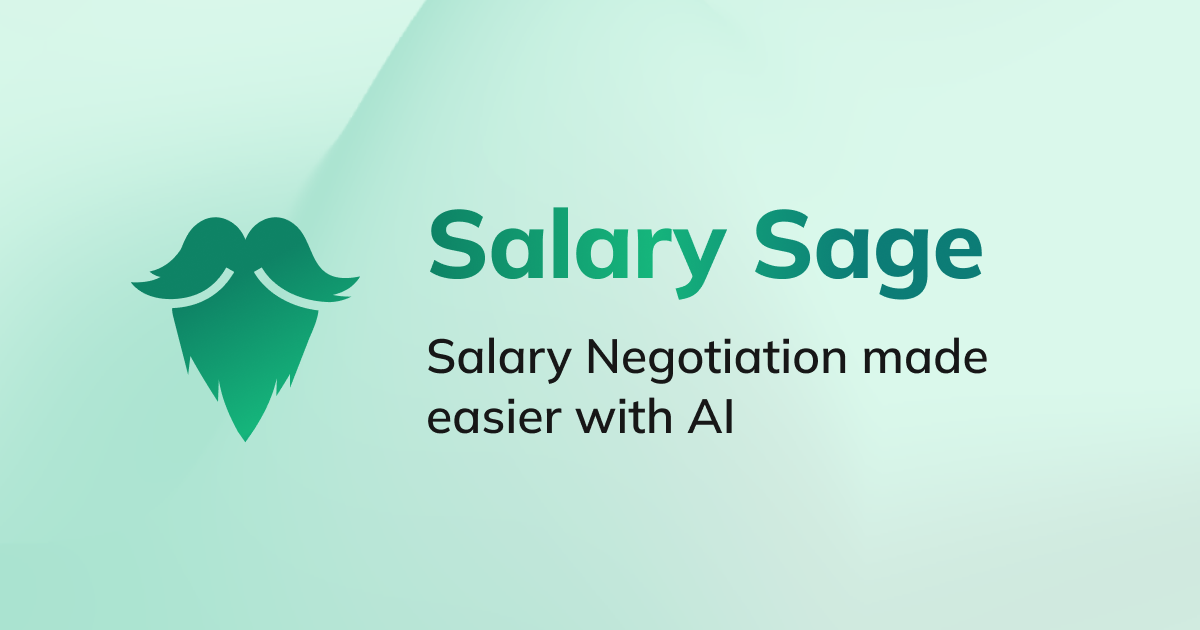
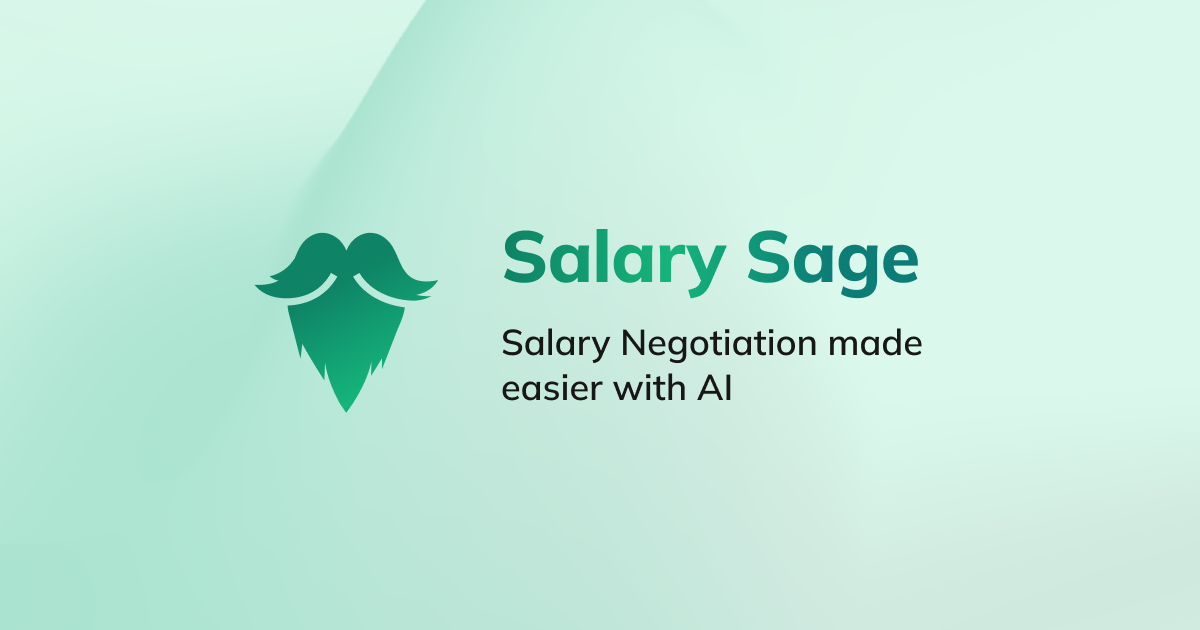
Add a zoomed out OG for FB/LinkedIn

Changed region(s): [[0.0925, 0.3317, 0.8325, 0.6937]]

diff --git a/app/layout.tsx b/app/layout.tsx
@@ -48,7 +48,7 @@ export default async function RootLayout({
       <meta property="og:url" content={domain} />
       <meta property="og:image" content={`${domain}og-main.png`} />
       <meta name="twitter:card" content="summary_large_image" />
-      <meta name="twitter:image" content={`${domain}og-main.png`} />
+      <meta name="twitter:image" content={`${domain}og-twitter.png`} />
 
       <Script
         src="https://www.googletagmanager.com/gtag/js?id=G-01Z86204LT"
